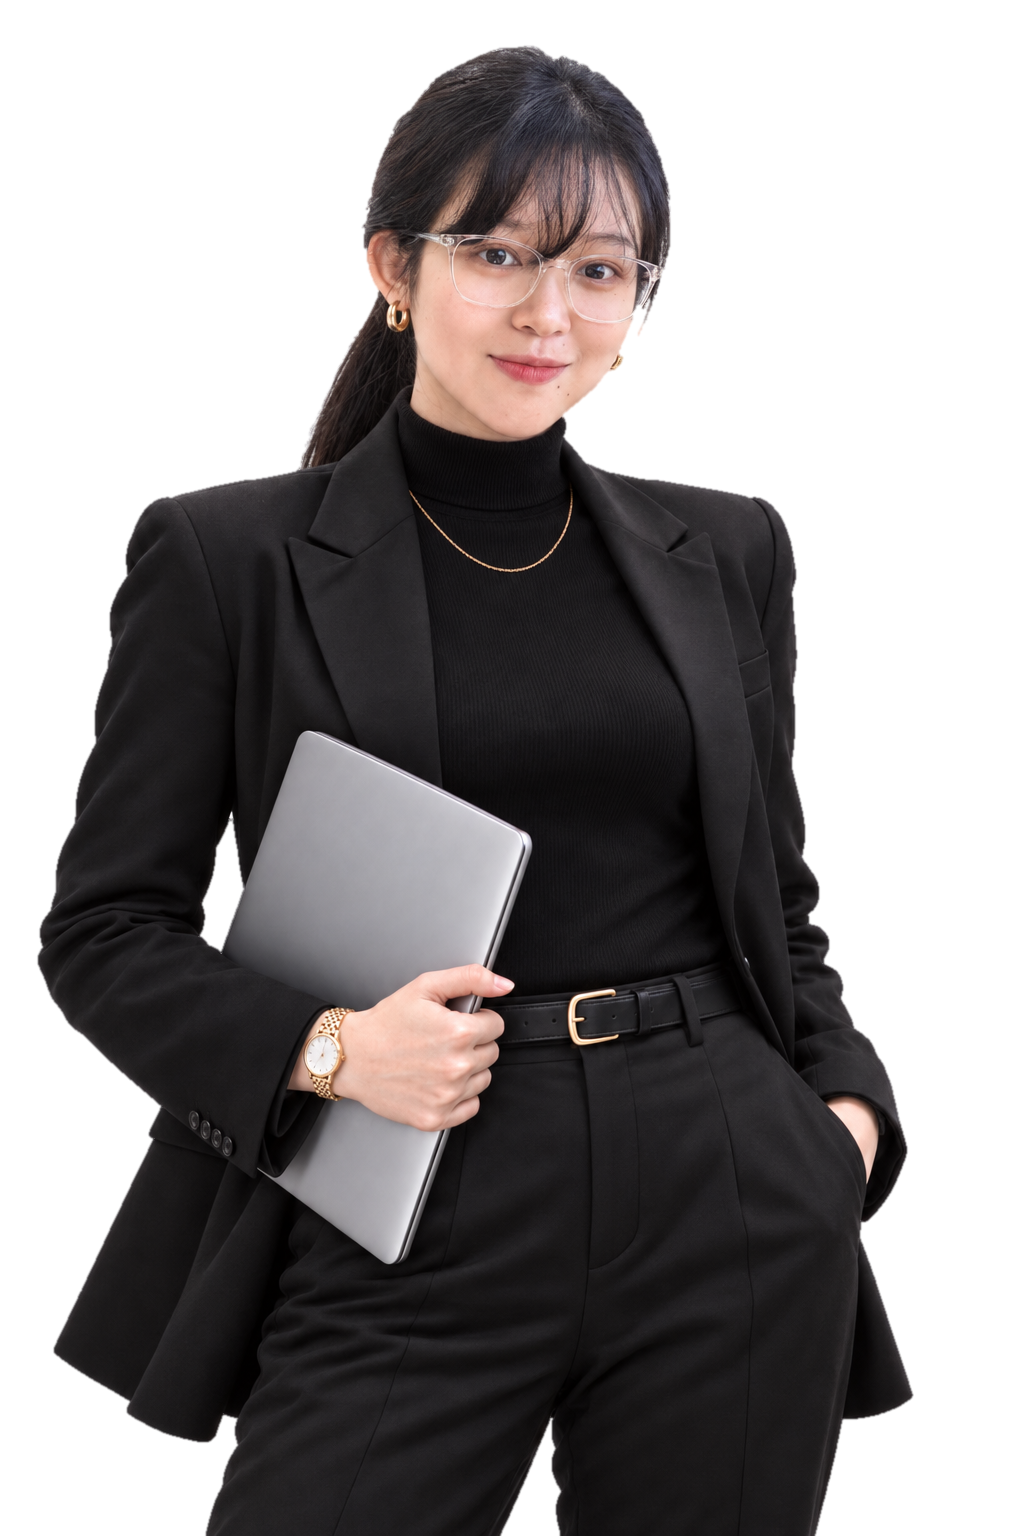
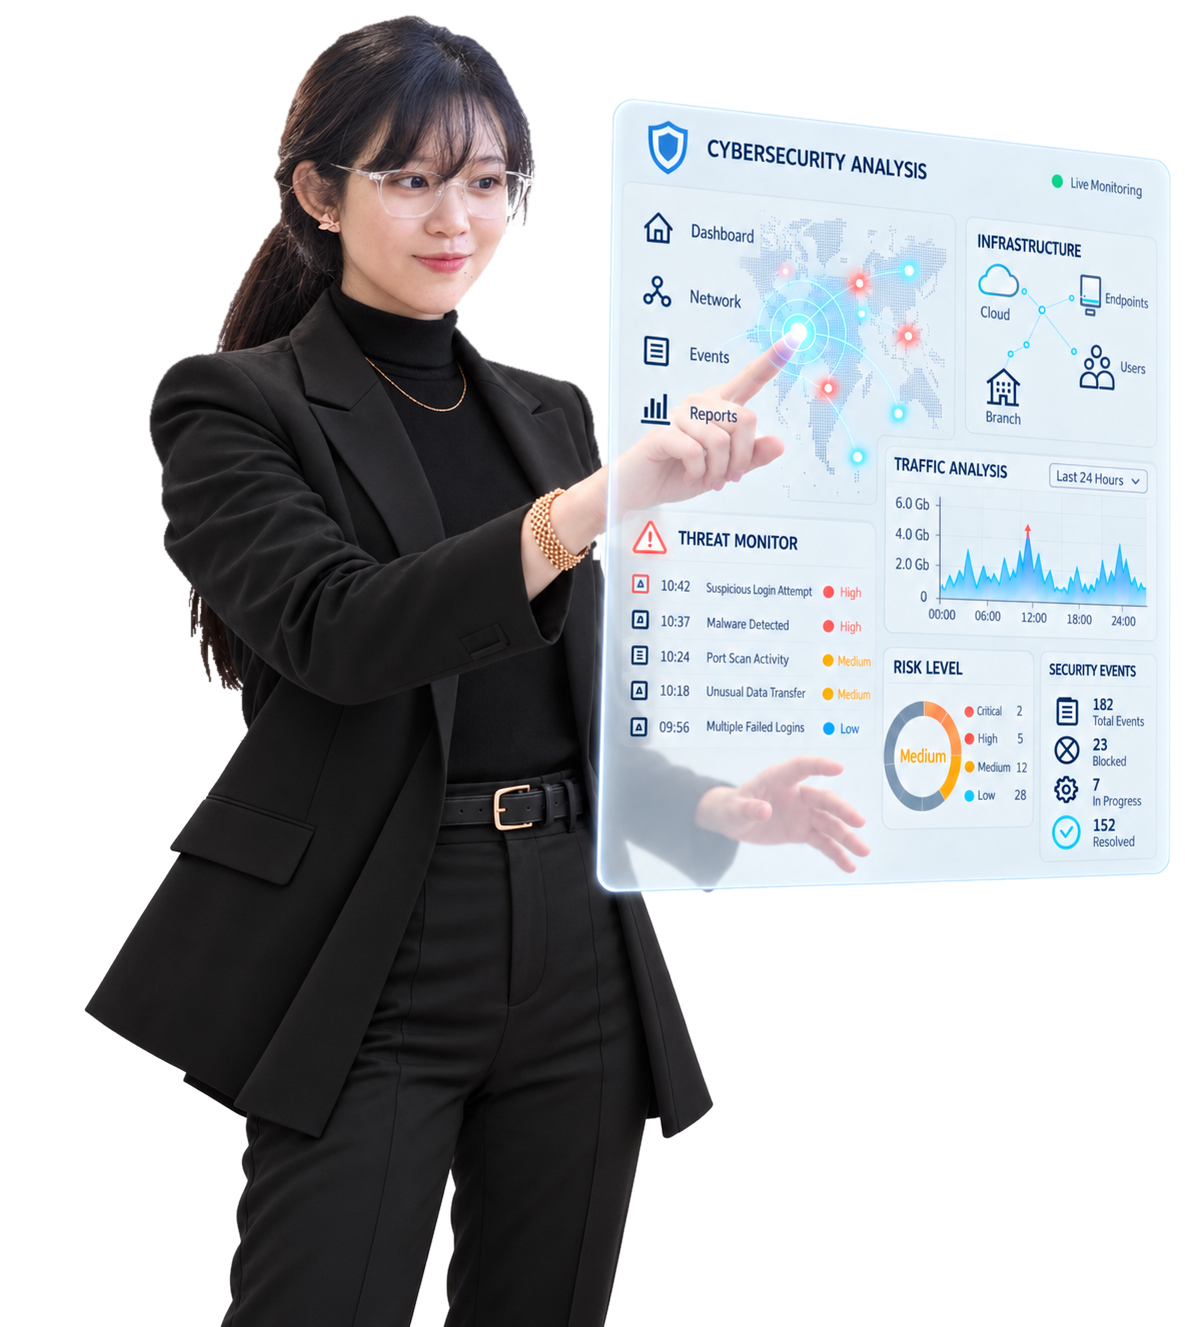
New cybersecurity photo with dashboard

diff --git a/game/index.html b/game/index.html
@@ -8,7 +8,7 @@
 <link rel="preconnect" href="https://fonts.googleapis.com">
 <link rel="preconnect" href="https://fonts.gstatic.com" crossorigin>
 <link rel="stylesheet" href="https://fonts.googleapis.com/css2?family=Inter:wght@400;500;600;700;800&display=swap">
-<link rel="stylesheet" href="../assets/css/style.css?v=20261002b">
+<link rel="stylesheet" href="../assets/css/style.css?v=20261002e">
 </head>
 <body id="top" data-root="../">
 <nav class="nav" aria-label="Main">
@@ -33,7 +33,7 @@
 </section>
 </main>
 <footer class="foot"><div class="wrap"><span>Preeyanan Khamfoei · Brisbane</span><span><a href="../profile/">Contact</a> · <a href="#top">Back to top ↑</a></span></div></footer>
-<script src="../assets/js/site.js?v=20261002b"></script>
-<script src="../assets/js/game.js?v=20261002b"></script>
+<script src="../assets/js/site.js?v=20261002e"></script>
+<script src="../assets/js/game.js?v=20261002e"></script>
 </body>
 </html>

diff --git a/index.html b/index.html
@@ -8,7 +8,7 @@
 <link rel="preconnect" href="https://fonts.googleapis.com">
 <link rel="preconnect" href="https://fonts.gstatic.com" crossorigin>
 <link rel="stylesheet" href="https://fonts.googleapis.com/css2?family=Inter:wght@400;500;600;700;800&display=swap">
-<link rel="stylesheet" href="assets/css/style.css?v=20261002b">
+<link rel="stylesheet" href="assets/css/style.css?v=20261002e">
 </head>
 <body id="top" data-root="">
 <nav class="nav" aria-label="Main">
@@ -55,7 +55,7 @@
 </section>
 </main>
 <footer class="foot"><div class="wrap"><span>Preeyanan Khamfoei · Brisbane</span><span><a href="profile/">Contact</a> · <a href="#top">Back to top ↑</a></span></div></footer>
-<script src="assets/js/site.js?v=20261002b"></script>
-<script src="assets/js/dial.js?v=20261002b"></script>
+<script src="assets/js/site.js?v=20261002e"></script>
+<script src="assets/js/dial.js?v=20261002e"></script>
 </body>
 </html>

diff --git a/artist/index.html b/artist/index.html
@@ -8,7 +8,7 @@
 <link rel="preconnect" href="https://fonts.googleapis.com">
 <link rel="preconnect" href="https://fonts.gstatic.com" crossorigin>
 <link rel="stylesheet" href="https://fonts.googleapis.com/css2?family=Inter:wght@400;500;600;700;800&display=swap">
-<link rel="stylesheet" href="../assets/css/style.css?v=20261002b">
+<link rel="stylesheet" href="../assets/css/style.css?v=20261002e">
 </head>
 <body id="top" data-root="../" style="--c:#8b5020">
 <nav class="nav" aria-label="Main">
@@ -44,6 +44,6 @@
 </nav></div>
 </main>
 <footer class="foot"><div class="wrap"><span>Preeyanan Khamfoei · Brisbane</span><span><a href="../profile/">Contact</a> · <a href="#top">Back to top ↑</a></span></div></footer>
-<script src="../assets/js/site.js?v=20261002b"></script>
+<script src="../assets/js/site.js?v=20261002e"></script>
 </body>
 </html>

diff --git a/cyber/index.html b/cyber/index.html
@@ -8,7 +8,7 @@
 <link rel="preconnect" href="https://fonts.googleapis.com">
 <link rel="preconnect" href="https://fonts.gstatic.com" crossorigin>
 <link rel="stylesheet" href="https://fonts.googleapis.com/css2?family=Inter:wght@400;500;600;700;800&display=swap">
-<link rel="stylesheet" href="../assets/css/style.css?v=20261002b">
+<link rel="stylesheet" href="../assets/css/style.css?v=20261002e">
 </head>
 <body id="top" data-root="../" style="--c:#2d2f34">
 <nav class="nav" aria-label="Main">
@@ -60,6 +60,6 @@
 </nav></div>
 </main>
 <footer class="foot"><div class="wrap"><span>Preeyanan Khamfoei · Brisbane</span><span><a href="../profile/">Contact</a> · <a href="#top">Back to top ↑</a></span></div></footer>
-<script src="../assets/js/site.js?v=20261002b"></script>
+<script src="../assets/js/site.js?v=20261002e"></script>
 </body>
 </html>

diff --git a/data/index.html b/data/index.html
@@ -8,7 +8,7 @@
 <link rel="preconnect" href="https://fonts.googleapis.com">
 <link rel="preconnect" href="https://fonts.gstatic.com" crossorigin>
 <link rel="stylesheet" href="https://fonts.googleapis.com/css2?family=Inter:wght@400;500;600;700;800&display=swap">
-<link rel="stylesheet" href="../assets/css/style.css?v=20261002b">
+<link rel="stylesheet" href="../assets/css/style.css?v=20261002e">
 </head>
 <body id="top" data-root="../" style="--c:#4a2a6e">
 <nav class="nav" aria-label="Main">
@@ -62,6 +62,6 @@
 </nav></div>
 </main>
 <footer class="foot"><div class="wrap"><span>Preeyanan Khamfoei · Brisbane</span><span><a href="../profile/">Contact</a> · <a href="#top">Back to top ↑</a></span></div></footer>
-<script src="../assets/js/site.js?v=20261002b"></script>
+<script src="../assets/js/site.js?v=20261002e"></script>
 </body>
 </html>

diff --git a/designer/index.html b/designer/index.html
@@ -8,7 +8,7 @@
 <link rel="preconnect" href="https://fonts.googleapis.com">
 <link rel="preconnect" href="https://fonts.gstatic.com" crossorigin>
 <link rel="stylesheet" href="https://fonts.googleapis.com/css2?family=Inter:wght@400;500;600;700;800&display=swap">
-<link rel="stylesheet" href="../assets/css/style.css?v=20261002b">
+<link rel="stylesheet" href="../assets/css/style.css?v=20261002e">
 </head>
 <body id="top" data-root="../" style="--c:#2f6f9f">
 <nav class="nav" aria-label="Main">
@@ -45,6 +45,6 @@
 </nav></div>
 </main>
 <footer class="foot"><div class="wrap"><span>Preeyanan Khamfoei · Brisbane</span><span><a href="../profile/">Contact</a> · <a href="#top">Back to top ↑</a></span></div></footer>
-<script src="../assets/js/site.js?v=20261002b"></script>
+<script src="../assets/js/site.js?v=20261002e"></script>
 </body>
 </html>

diff --git a/hobby/index.html b/hobby/index.html
@@ -8,7 +8,7 @@
 <link rel="preconnect" href="https://fonts.googleapis.com">
 <link rel="preconnect" href="https://fonts.gstatic.com" crossorigin>
 <link rel="stylesheet" href="https://fonts.googleapis.com/css2?family=Inter:wght@400;500;600;700;800&display=swap">
-<link rel="stylesheet" href="../assets/css/style.css?v=20261002b">
+<link rel="stylesheet" href="../assets/css/style.css?v=20261002e">
 </head>
 <body id="top" data-root="../" style="--c:#a8456a">
 <nav class="nav" aria-label="Main">
@@ -43,6 +43,6 @@
 </nav></div>
 </main>
 <footer class="foot"><div class="wrap"><span>Preeyanan Khamfoei · Brisbane</span><span><a href="../profile/">Contact</a> · <a href="#top">Back to top ↑</a></span></div></footer>
-<script src="../assets/js/site.js?v=20261002b"></script>
+<script src="../assets/js/site.js?v=20261002e"></script>
 </body>
 </html>

diff --git a/student/index.html b/student/index.html
@@ -8,7 +8,7 @@
 <link rel="preconnect" href="https://fonts.googleapis.com">
 <link rel="preconnect" href="https://fonts.gstatic.com" crossorigin>
 <link rel="stylesheet" href="https://fonts.googleapis.com/css2?family=Inter:wght@400;500;600;700;800&display=swap">
-<link rel="stylesheet" href="../assets/css/style.css?v=20261002b">
+<link rel="stylesheet" href="../assets/css/style.css?v=20261002e">
 </head>
 <body id="top" data-root="../" style="--c:#4f5263">
 <nav class="nav" aria-label="Main">
@@ -78,6 +78,6 @@
 </nav></div>
 </main>
 <footer class="foot"><div class="wrap"><span>Preeyanan Khamfoei · Brisbane</span><span><a href="../profile/">Contact</a> · <a href="#top">Back to top ↑</a></span></div></footer>
-<script src="../assets/js/site.js?v=20261002b"></script>
+<script src="../assets/js/site.js?v=20261002e"></script>
 </body>
 </html>

diff --git a/traveller/index.html b/traveller/index.html
@@ -8,7 +8,7 @@
 <link rel="preconnect" href="https://fonts.googleapis.com">
 <link rel="preconnect" href="https://fonts.gstatic.com" crossorigin>
 <link rel="stylesheet" href="https://fonts.googleapis.com/css2?family=Inter:wght@400;500;600;700;800&display=swap">
-<link rel="stylesheet" href="../assets/css/style.css?v=20261002b">
+<link rel="stylesheet" href="../assets/css/style.css?v=20261002e">
 </head>
 <body id="top" data-root="../" style="--c:#43843f">
 <nav class="nav" aria-label="Main">
@@ -44,6 +44,6 @@
 </nav></div>
 </main>
 <footer class="foot"><div class="wrap"><span>Preeyanan Khamfoei · Brisbane</span><span><a href="../profile/">Contact</a> · <a href="#top">Back to top ↑</a></span></div></footer>
-<script src="../assets/js/site.js?v=20261002b"></script>
+<script src="../assets/js/site.js?v=20261002e"></script>
 </body>
 </html>

diff --git a/profile/index.html b/profile/index.html
@@ -8,7 +8,7 @@
 <link rel="preconnect" href="https://fonts.googleapis.com">
 <link rel="preconnect" href="https://fonts.gstatic.com" crossorigin>
 <link rel="stylesheet" href="https://fonts.googleapis.com/css2?family=Inter:wght@400;500;600;700;800&display=swap">
-<link rel="stylesheet" href="../assets/css/style.css?v=20261002b">
+<link rel="stylesheet" href="../assets/css/style.css?v=20261002e">
 </head>
 <body id="top" data-root="../">
 <nav class="nav" aria-label="Main">
@@ -43,6 +43,6 @@
 </section>
 </main>
 <footer class="foot"><div class="wrap"><span>Preeyanan Khamfoei · Brisbane</span><span><a href="../profile/">Contact</a> · <a href="#top">Back to top ↑</a></span></div></footer>
-<script src="../assets/js/site.js?v=20261002b"></script>
+<script src="../assets/js/site.js?v=20261002e"></script>
 </body>
 </html>

diff --git a/assets/js/site.js b/assets/js/site.js
@@ -17,7 +17,7 @@ var PHOTOS = {
   traveller: 'assets/img/traveller-pop5.webp',
   artist: 'assets/img/artist-pop.webp',
   data: 'assets/img/data-pop2.webp',
-  cyber: 'assets/img/cyber-pop.webp'
+  cyber: 'assets/img/cyber-pop4.webp'
 };
   function shade(hex, amt){
   var n = parseInt(hex.slice(1), 16), r = n >> 16, g = (n >> 8) & 255, b = n & 255;
